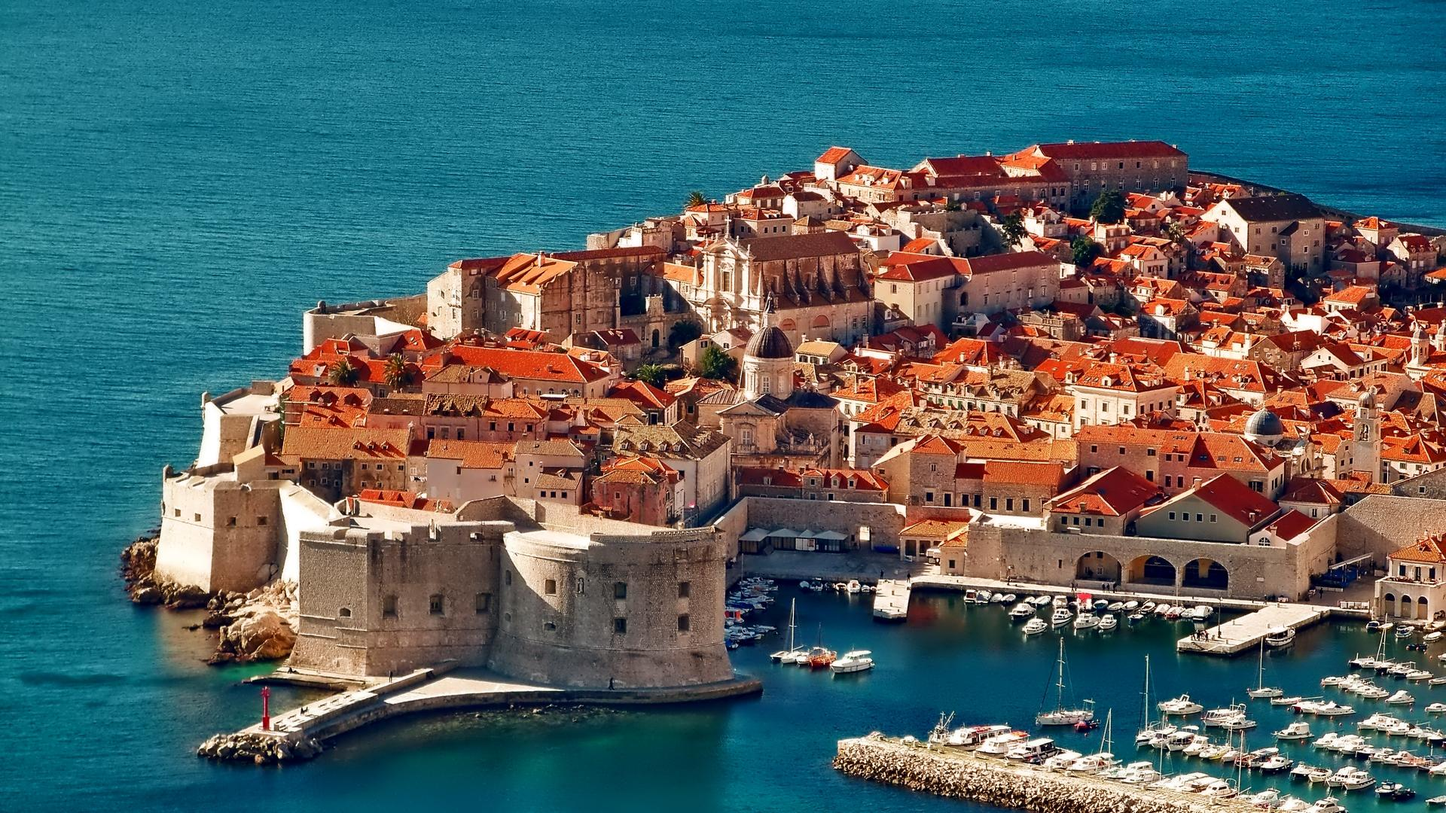
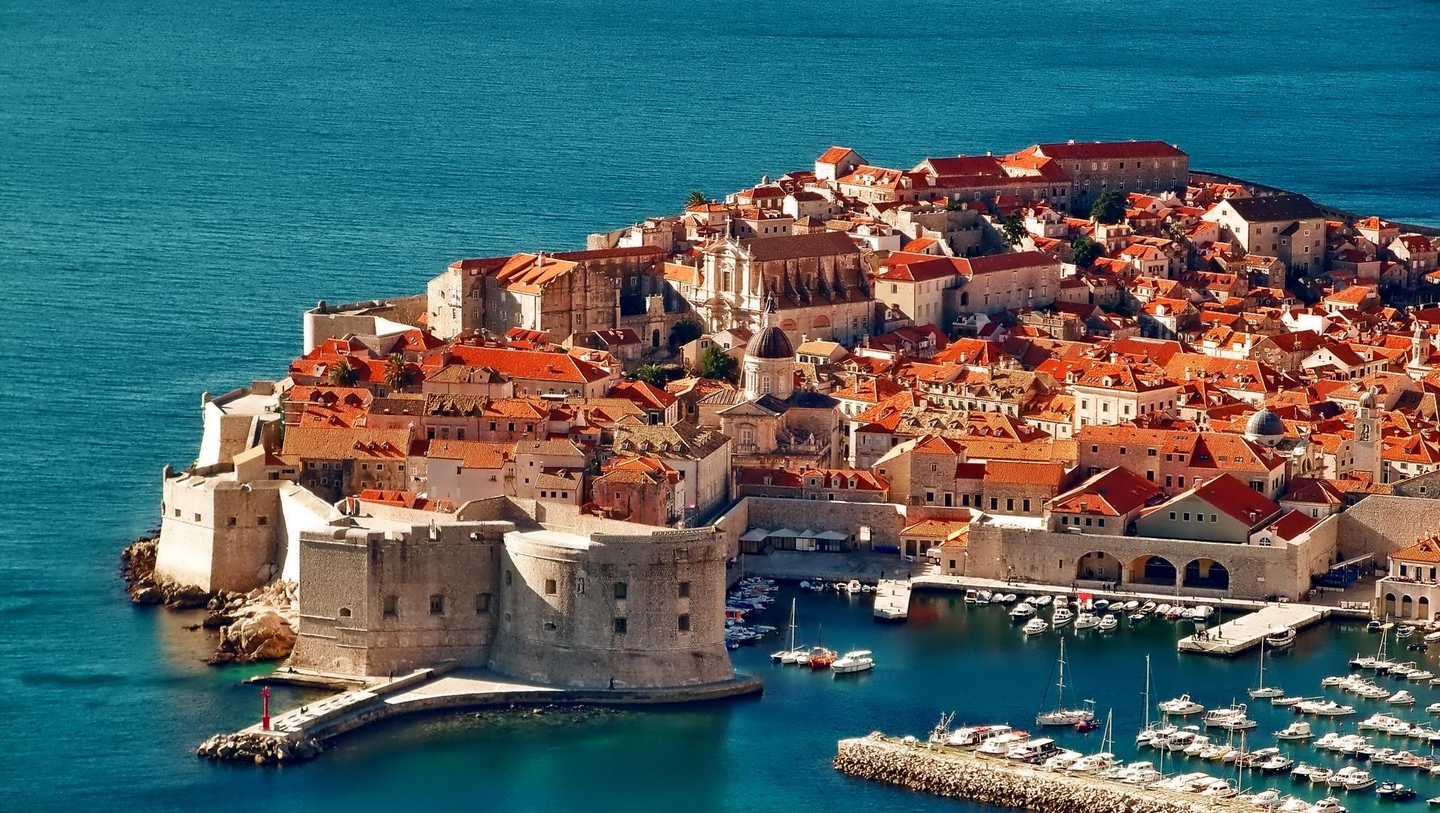
Aggiunte immagini, sistemazioni varie

Changed region(s): [[0.0926, 0.0306, 1.0, 1.0], [0.3087, 0.825, 0.4322, 0.8861], [0.7718, 0.0306, 0.8027, 0.0611]]

diff --git a/esploraLeCitta.html b/esploraLeCitta.html
@@ -171,21 +171,21 @@
 					<hr><br><br>
 					<div class="row text-center">
 						<div class="col-sm-4 paddingBottom50">
-							  <a href="cities/civitaDiBagnoregio.html"><img class="img-circle fadeHover" src="http://placehold.it/200" alt="Generic placeholder image"></a>
+							  <a href="cities/civitaDiBagnoregio.html"><img class="roundBorders img-responsive fadeHover" src="img/cittaeattivita/Civita_di_bagnoregio.jpg" alt="Generic placeholder image"></a>
 							  <h2><a href="cities/civitaDiBagnoregio.html">Civita di Bagnoregio</a></h2><h3>Italia</h3>
 							<p>Voluptate de legam sed nescius duis ita officia exquisitaque, ubi ipsum aliqua 
 								ab vidisse, se eram nulla dolore proident quo eu amet quid quid probant ea nisi 
 								nam deserunt, litteris quo velit</p>
 						</div>
 						<div class="col-sm-4 paddingBottom50">
-							  <a href="#"><img class="img-circle fadeHover" src="http://placehold.it/200" alt="Generic placeholder image"></a>
+							  <a href="#"><img class="roundBorders img-responsive fadeHover" src="img/cittaeattivita/Collonges-la-Rouge_place.JPG" alt="Generic placeholder image"></a>
 							  <h2>Collonges La Rouge</h2><h3>Francia</h3>
 							<p>Voluptate de legam sed nescius duis ita officia exquisitaque, ubi ipsum aliqua 
 								ab vidisse, se eram nulla dolore proident quo eu amet quid quid probant ea nisi 
 								nam deserunt, litteris quo velit</p>
 						</div>
 						<div class="col-sm-4 paddingBottom50">
-							  <a href="#"><img class="img-circle fadeHover" src="http://placehold.it/200" alt="Generic placeholder image"></a>
+							  <a href="#"><img class="roundBorders img-responsive fadeHover" src="img/cittaeattivita/basilea.jpg" alt="Generic placeholder image"></a>
 							  <h2>Basel</h2><h3>Svizzera</h3>
 							<p>Voluptate de legam sed nescius duis ita officia exquisitaque, ubi ipsum aliqua 
 								ab vidisse, se eram nulla dolore proident quo eu amet quid quid probant ea nisi 
@@ -194,21 +194,21 @@
 					</div>
 					<div class="row text-center">
 						<div class="col-sm-4 paddingBottom50">
-							  <a href="#"><img class="img-circle fadeHover" src="http://placehold.it/200" alt="Generic placeholder image"></a>
+							  <a href="#"><img class="roundBorders img-responsive fadeHover" src="img/cittaeattivita/dubrovnik-1496602.jpg" alt="Generic placeholder image"></a>
 							  <h2>Dubrovnick</h2><h3>Croazia</h3>
 							<p>Voluptate de legam sed nescius duis ita officia exquisitaque, ubi ipsum aliqua 
 								ab vidisse, se eram nulla dolore proident quo eu amet quid quid probant ea nisi 
 								nam deserunt, litteris quo velit</p>
 						</div>
 						<div class="col-sm-4 paddingBottom50">
-							  <a href="#"><img class="img-circle fadeHover" src="http://placehold.it/200" alt="Generic placeholder image"></a>
+							  <a href="#"><img class="roundBorders img-responsive fadeHover" src="img/cittaeattivita/BRUGES_1_RESIZED.JPG" alt="Generic placeholder image"></a>
 							  <h2>Bruges</h2><h3>Belgio</h3>
 							<p>Voluptate de legam sed nescius duis ita officia exquisitaque, ubi ipsum aliqua 
 								ab vidisse, se eram nulla dolore proident quo eu amet quid quid probant ea nisi 
 								nam deserunt, litteris quo velit</p>
 						</div>
 						<div class="col-sm-4 paddingBottom50">
-							  <a href="#"><img class="img-circle fadeHover" src="http://placehold.it/200" alt="Generic placeholder image"></a>
+							  <a href="#"><img class="roundBorders img-responsive fadeHover" src="img/cittaeattivita/Cesky-Krumlov2.jpg" alt="Generic placeholder image"></a>
 							  <h2>Český Krumlov</h2><h3>Rep.Ceca</h3>
 							<p>Voluptate de legam sed nescius duis ita officia exquisitaque, ubi ipsum aliqua 
 								ab vidisse, se eram nulla dolore proident quo eu amet quid quid probant ea nisi 

diff --git a/cities/civitaDiBagnoregio.html b/cities/civitaDiBagnoregio.html
@@ -169,28 +169,40 @@
                     <h2 class="intro-text text-center">La città:
                         <strong>Civita di Bagnoregio</strong>
                     </h2>
-					<hr><br><br>
-					<div class="row text-center">
-						<div class="col-sm-3 paddingBottom50">
-							  <a href="alloggiareCivita.html"><img class="img-circle fadeHover respActivity" src="http://placehold.it/200&text=Alloggiare" alt="Generic placeholder image"></a>
-						</div>
-						<div class="col-sm-3 paddingBottom50">
-							  <a href="#"><img class="img-circle fadeHover respActivity" src="http://placehold.it/200&text=Mangiare" alt="Generic placeholder image"></a>
-						</div>
-						<div class="col-sm-3 paddingBottom50">
-							  <a href="#"><img class="img-circle fadeHover respActivity" src="http://placehold.it/200&text=Attività" alt="Generic placeholder image"></a>
-						</div>
-						<div class="col-sm-3 paddingBottom50">
-							  <a href="#"><img class="img-circle fadeHover respActivity" src="http://placehold.it/200&text=Info+Pratiche" alt="Generic placeholder image"></a>
-						</div>
-					</div>
-					<p>Cupidatat quo aute id iudicem legam iudicem eiusmod. O dolor incididunt, 
+					<hr>
+                     <div class="row">
+                        <div class="col-sm-4 text-center">
+                            <img class="img-responsive roundBorders" src="../img/foto/N2_civita_di_bagnoregio.jpg"></img>
+                        </div>
+                        <div class="col-sm-8">
+					       <p>Cupidatat quo aute id iudicem legam iudicem eiusmod. O dolor incididunt, 
 						litteris quorum an occaecat adipisicing an laborum nulla eiusmod est an irure 
 						aliquip id excepteur comprehenderit aut admodum ex commodo varias possumus est 
 						et multos exercitation id incididunt quorum labore ullamco culpa. Hic ita elit 
 						aliqua malis a fugiat laborum ubi possumus se qui sed quis officia non amet 
 						excepteur fidelissimae. An legam laborum in elit aliquip ex velit illum. Te 
 						minim fore noster doctrina. Nam veniam hic varias. Esse mandaremus voluptatibus.</p>
+                            <p>Est ab cohaerescant. Iudicem minim nostrud arbitror iis officia aliqua malis ad 
+                                nulla, elit aut consequat in tempor te ingeniis. Ubi irure aliqua est pariatur 
+                                qui occaecat cillum ab fabulas instituendarum ubi litteris duis si mentitum 
+                                fidelissimae si ut varias sunt culpa incididunt</p>
+                        </div>
+                    </div>
+                <br><br>
+					<div class="row text-center">
+						<div class="col-sm-3 paddingBottom50">
+							  <a href="alloggiareCivita.html"><img class="img-circle fadeHover respActivity" src="../img/Alloggiare.gif" alt="Alloggiare"></a>
+						</div>
+						<div class="col-sm-3 paddingBottom50">
+							  <a href="mangiareCivita.html"><img class="img-circle fadeHover respActivity" src="../img/Mangiare.gif" alt="Mangiare"></a>
+						</div>
+						<div class="col-sm-3 paddingBottom50">
+							  <a href="#"><img class="img-circle fadeHover respActivity" src="../img/Attivita.gif" alt="Attivita"></a>
+						</div>
+						<div class="col-sm-3 paddingBottom50">
+							  <a href="#"><img class="img-circle fadeHover respActivity" src="../img/Infopratiche.gif" alt="Info Pratiche"></a>
+						</div>
+					</div>
                 </div>
             </div>
         </div>
